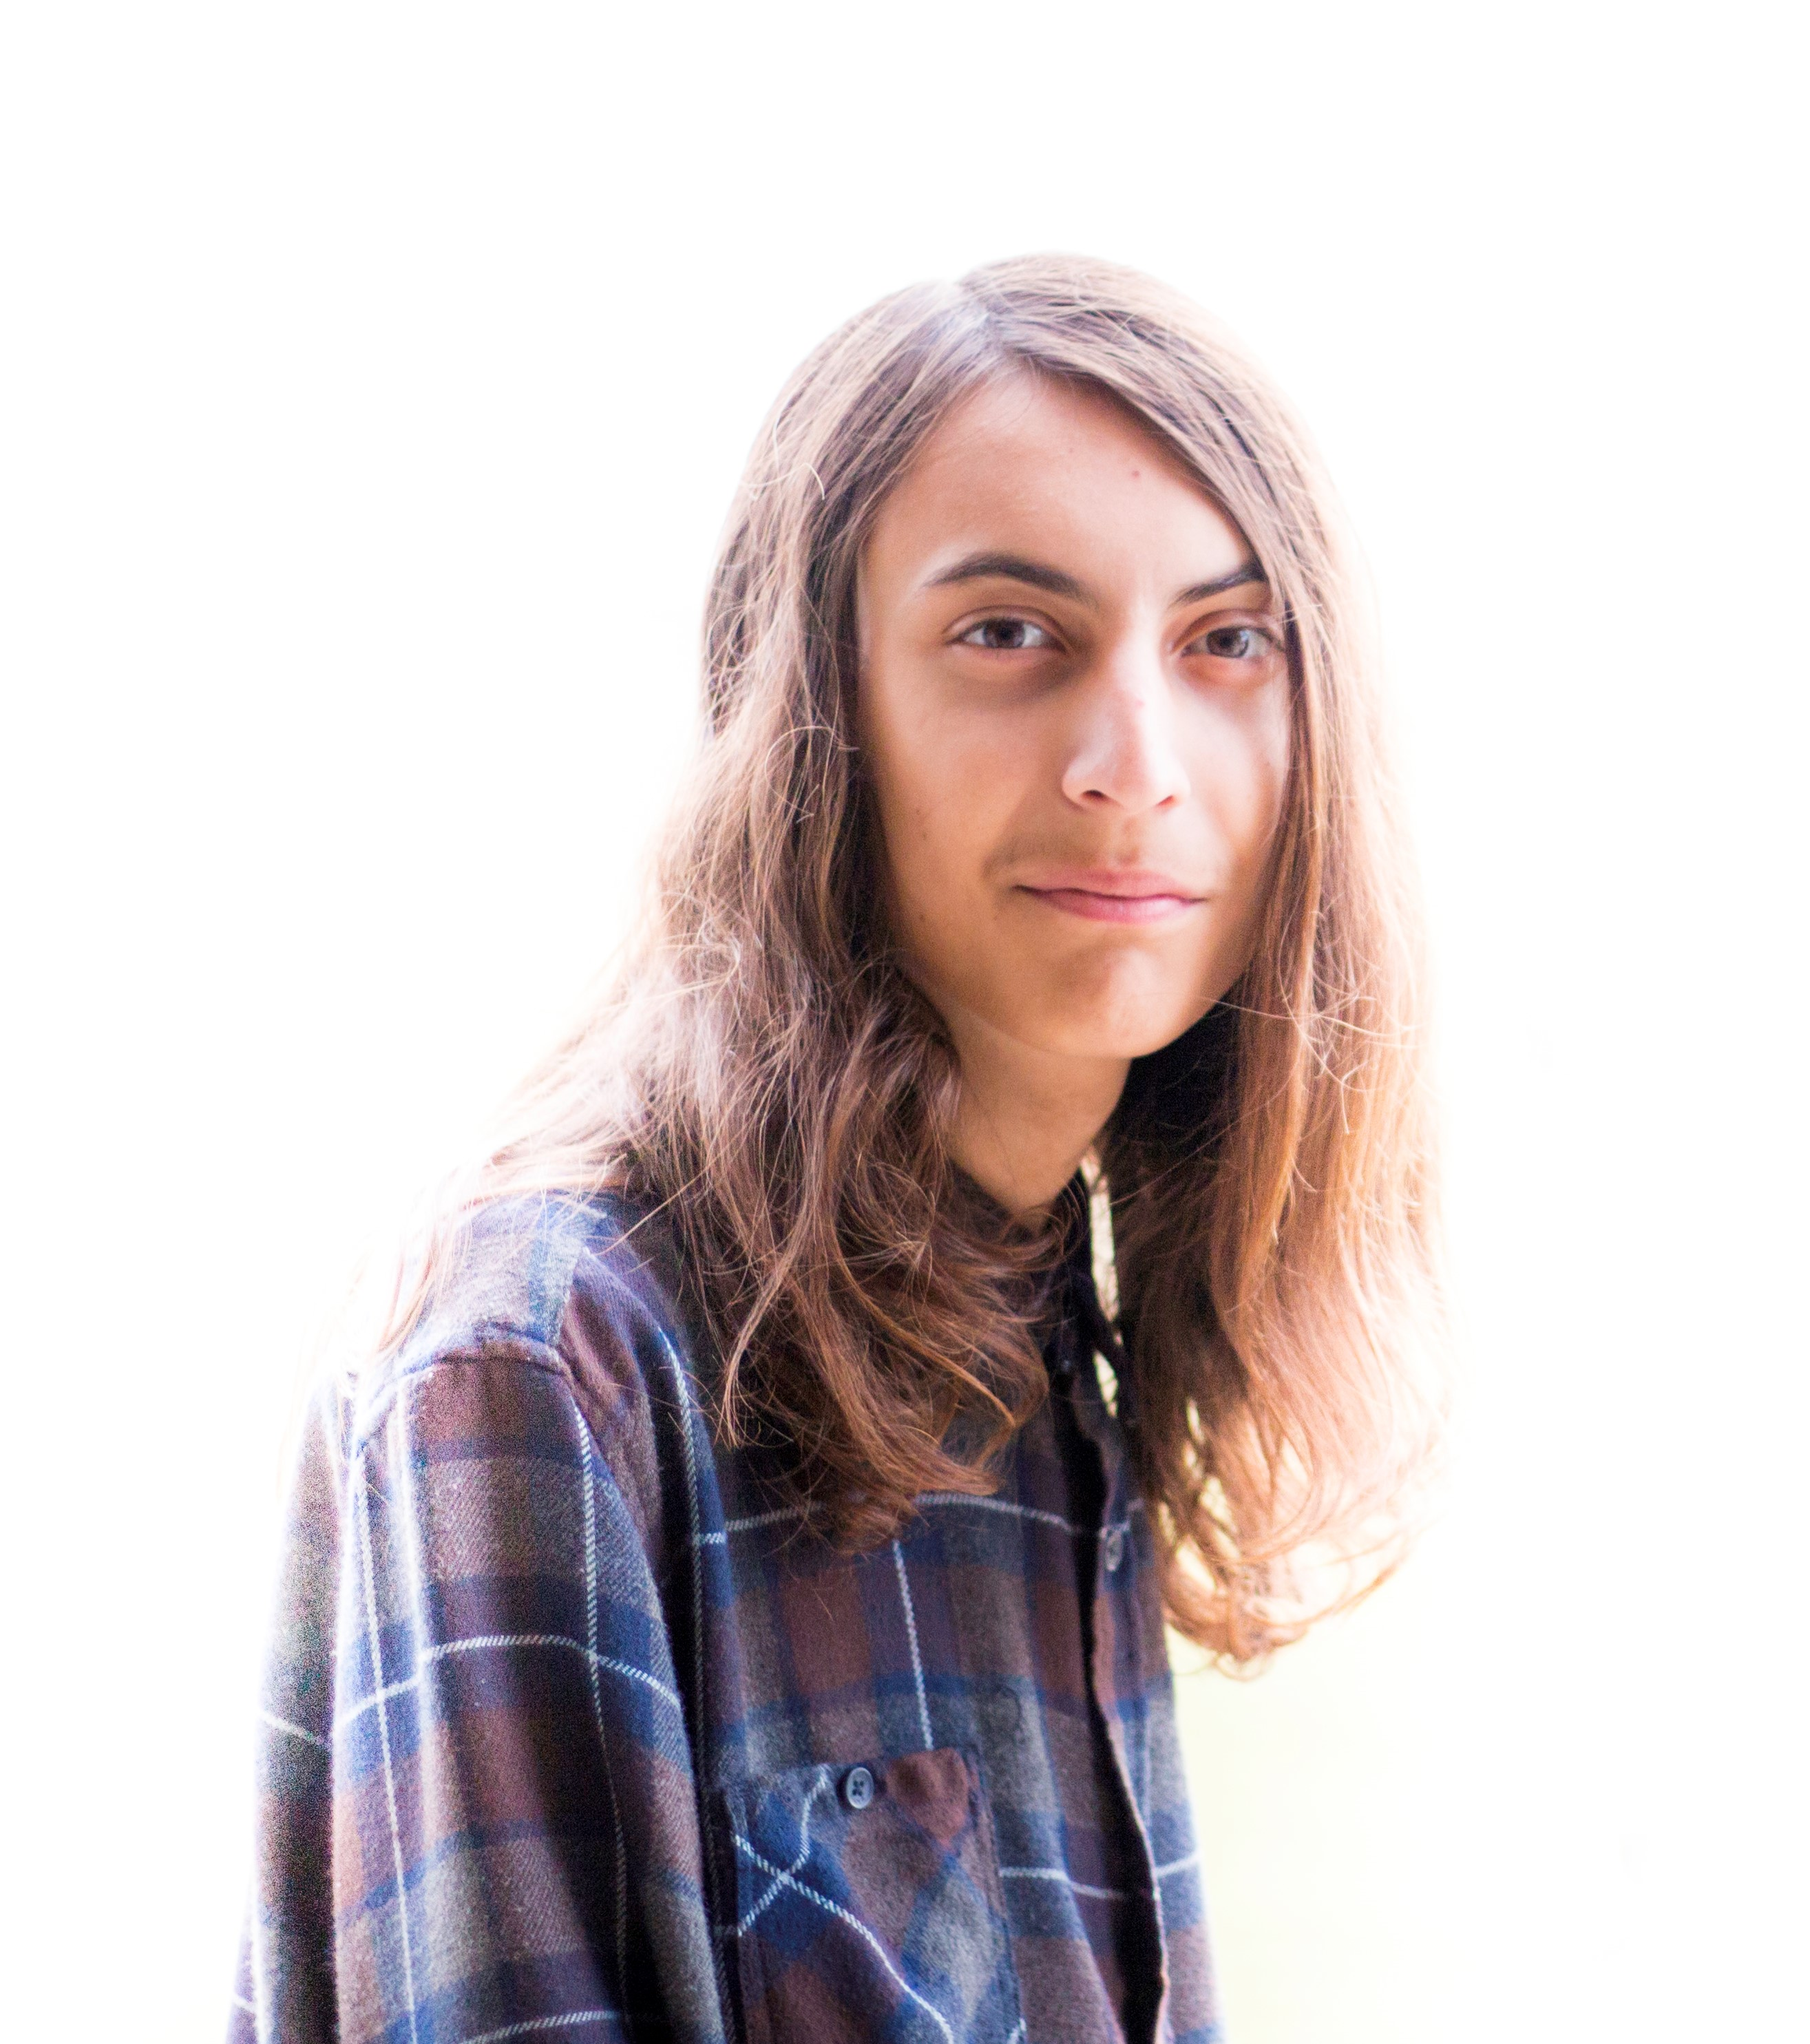
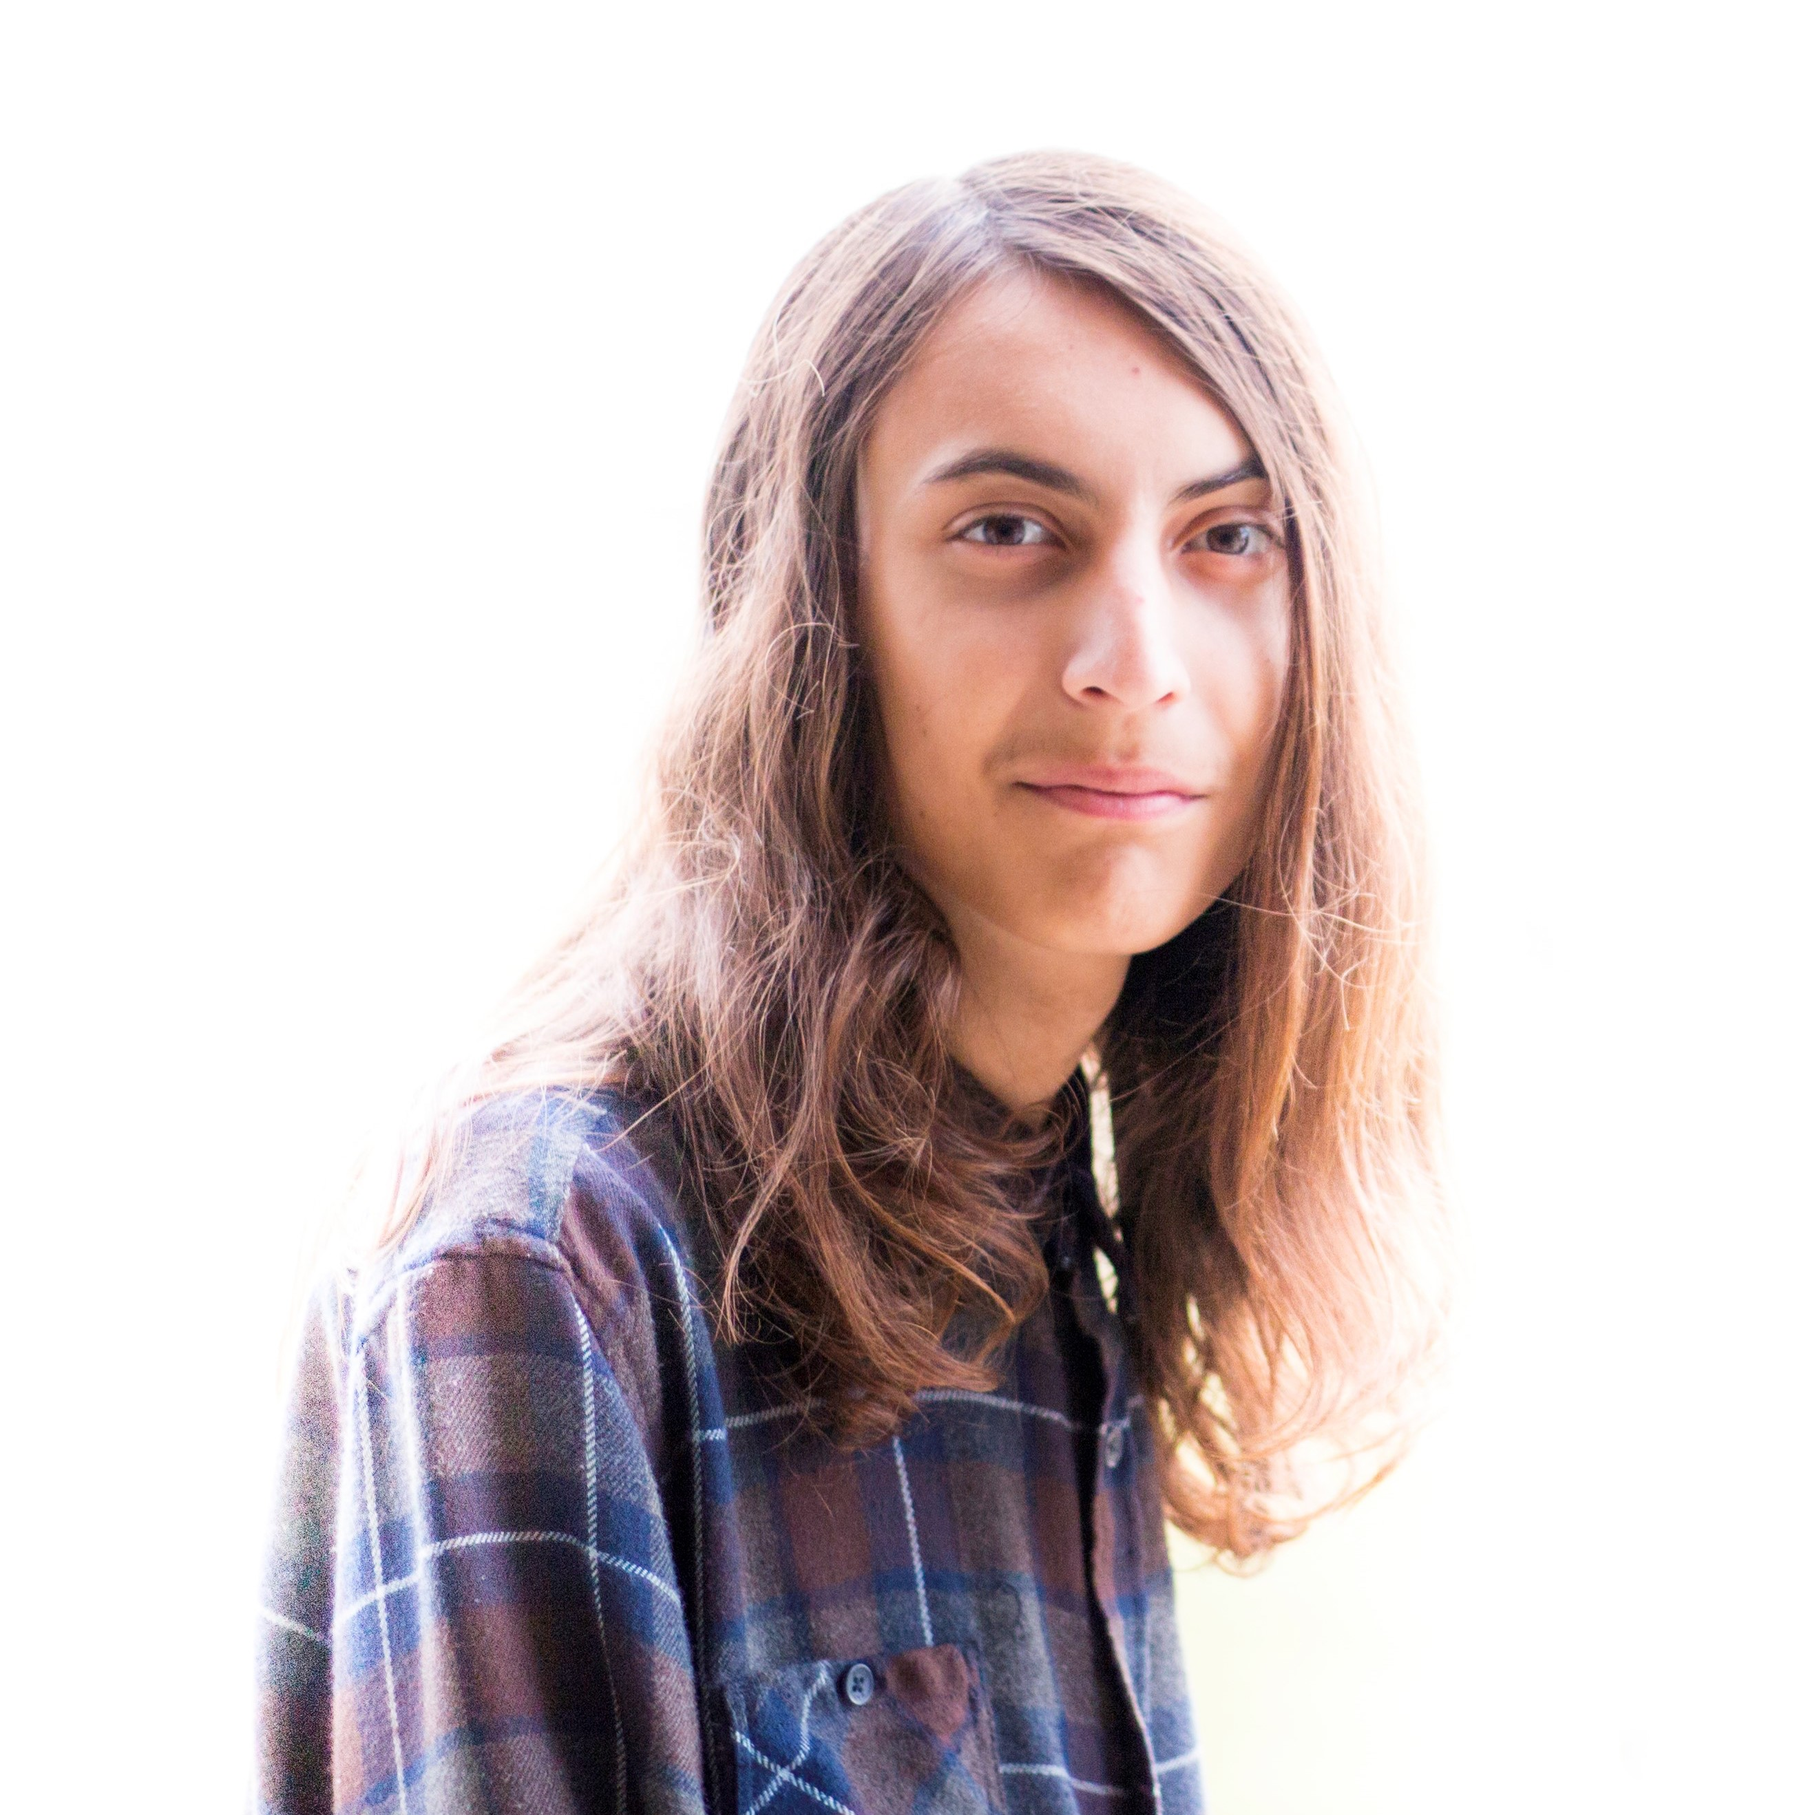
made team photos square to fix circle issue

Changed region(s): [[0.1249, 0.0622, 0.8119, 1.0]]

diff --git a/team.html b/team.html
@@ -23,7 +23,7 @@
             border-radius: 50%;
         }
 
-        /*rounds landscape rectangle images*/
+ /*rounds landscape rectangle images*/
         .circular--landscape {
           display: inline-block;
           position: relative;
@@ -67,7 +67,8 @@
 
                         <header class="major">
 					          <h2>Team</h2>
-					</header>
+					    </header>
+                        
                         <!--First row (team photo, description)-->
 						<div class="row">
                             <img src="teamphotos/teamphotodec9.JPG" alt="team photo" width="100%" height="100%"/>
@@ -75,7 +76,8 @@
 
                         </div>
 
-     <div align="center">
+                        <div align="center">
+                            
                         <!--Second row-->
                         <h3 style="text-align: center">Leadership</h3>
 						<div class="row">
@@ -83,7 +85,7 @@
 
 							<div class="6u 12u(mobilep)">
 
-								<img class="circular--square" src="teamphotos/kent.png" alt="team photo" width="50%" height="50%"/>
+								<img class="circular--square" src="teamphotos/kent.png" alt="kent" width="50%" height="50%"/>
 								<h4>Kent Roberts</h4>
                                 <h5>Co-Captain, Vehicle Design Lead</h5>
 
@@ -91,7 +93,7 @@
 
 							<div class="6u 12u(mobilep)">
 
-								<img class="circular--square" src="teamphotos/zafar.png" alt="team photo" width="50%" height="50%"/>
+								<img class="circular--square" src="teamphotos/zafar.png" alt="zafar" width="50%" height="50%"/>
 								<h4>Zafar Rustamkulov</h4>
                                 <h5>Co-Captain, Data Analysis and Control Systems Lead</h5>
 

diff --git a/index.html b/index.html
@@ -57,7 +57,7 @@
 </nav>
 <!--end pseudo navbar for mobile ^^ -->
 <!--REAL Navbar that has logo and is centered starts here -->
-	 <div id="navigation-container">
+                    <div id="navigation-container">
 						<ul>
                             <li><a href="mission.html"><b>Mission</b></a></li>
                             <li><a href="team.html"><b>Team</b></a></li>
